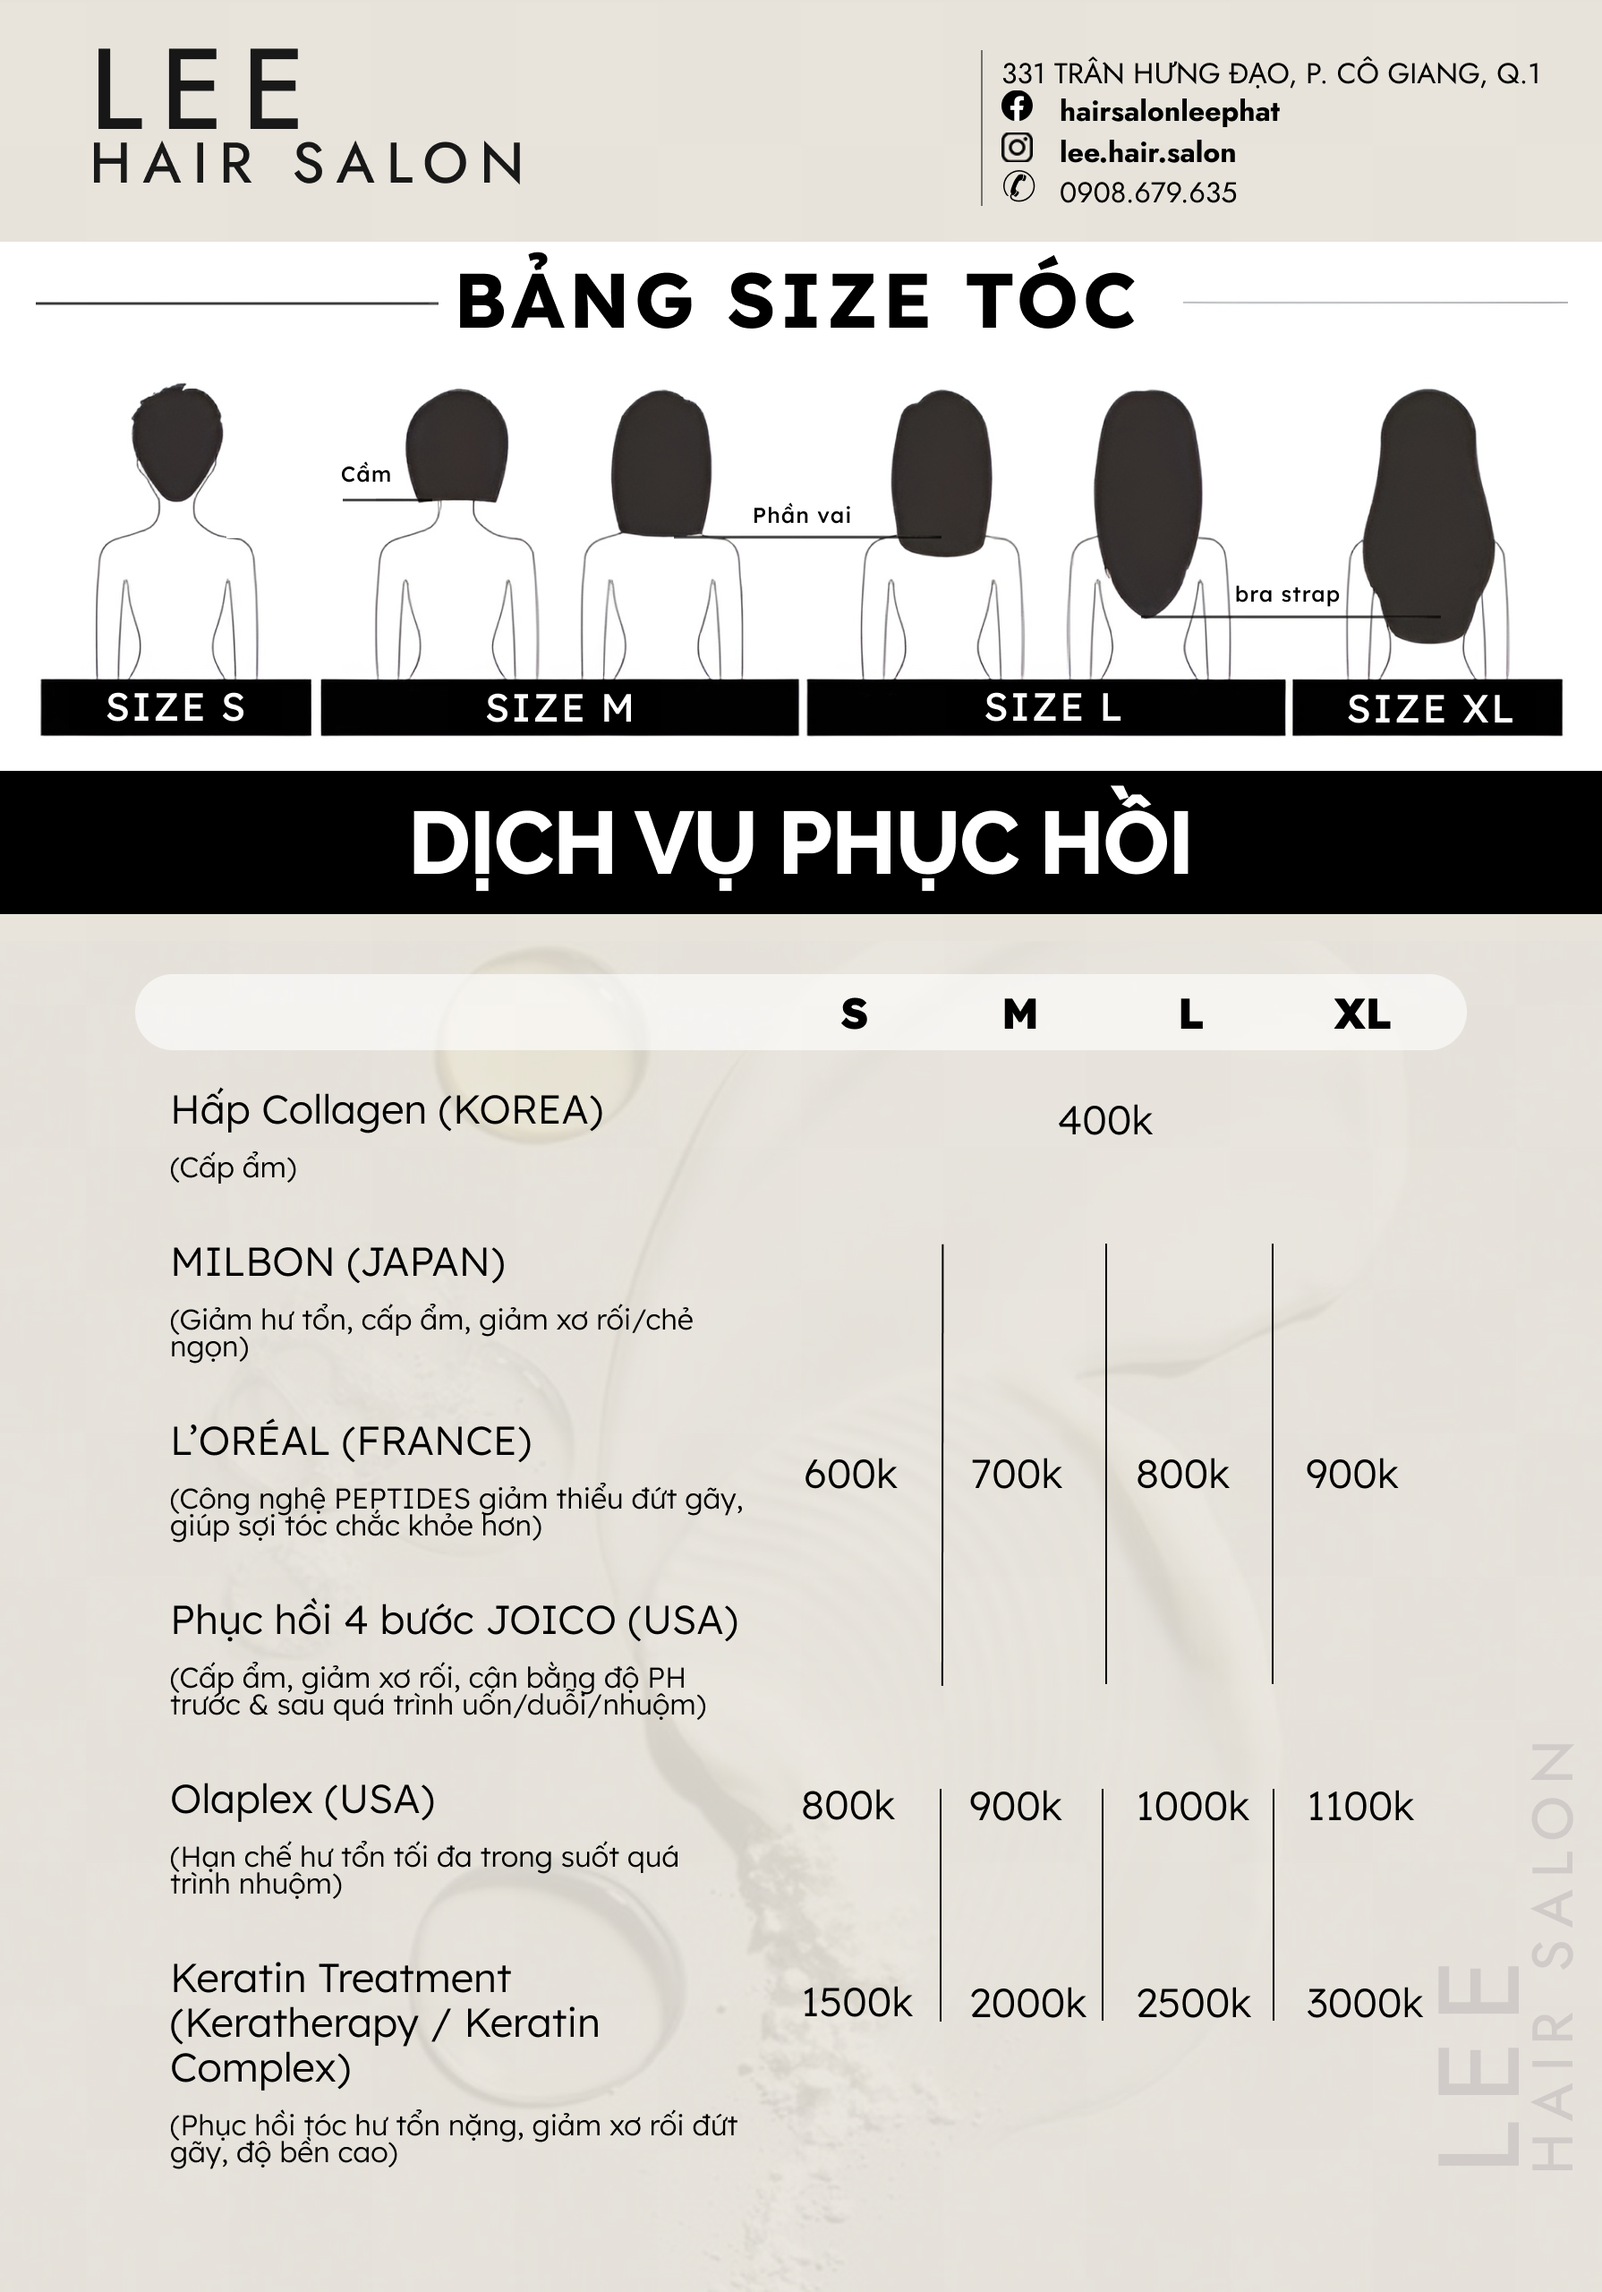
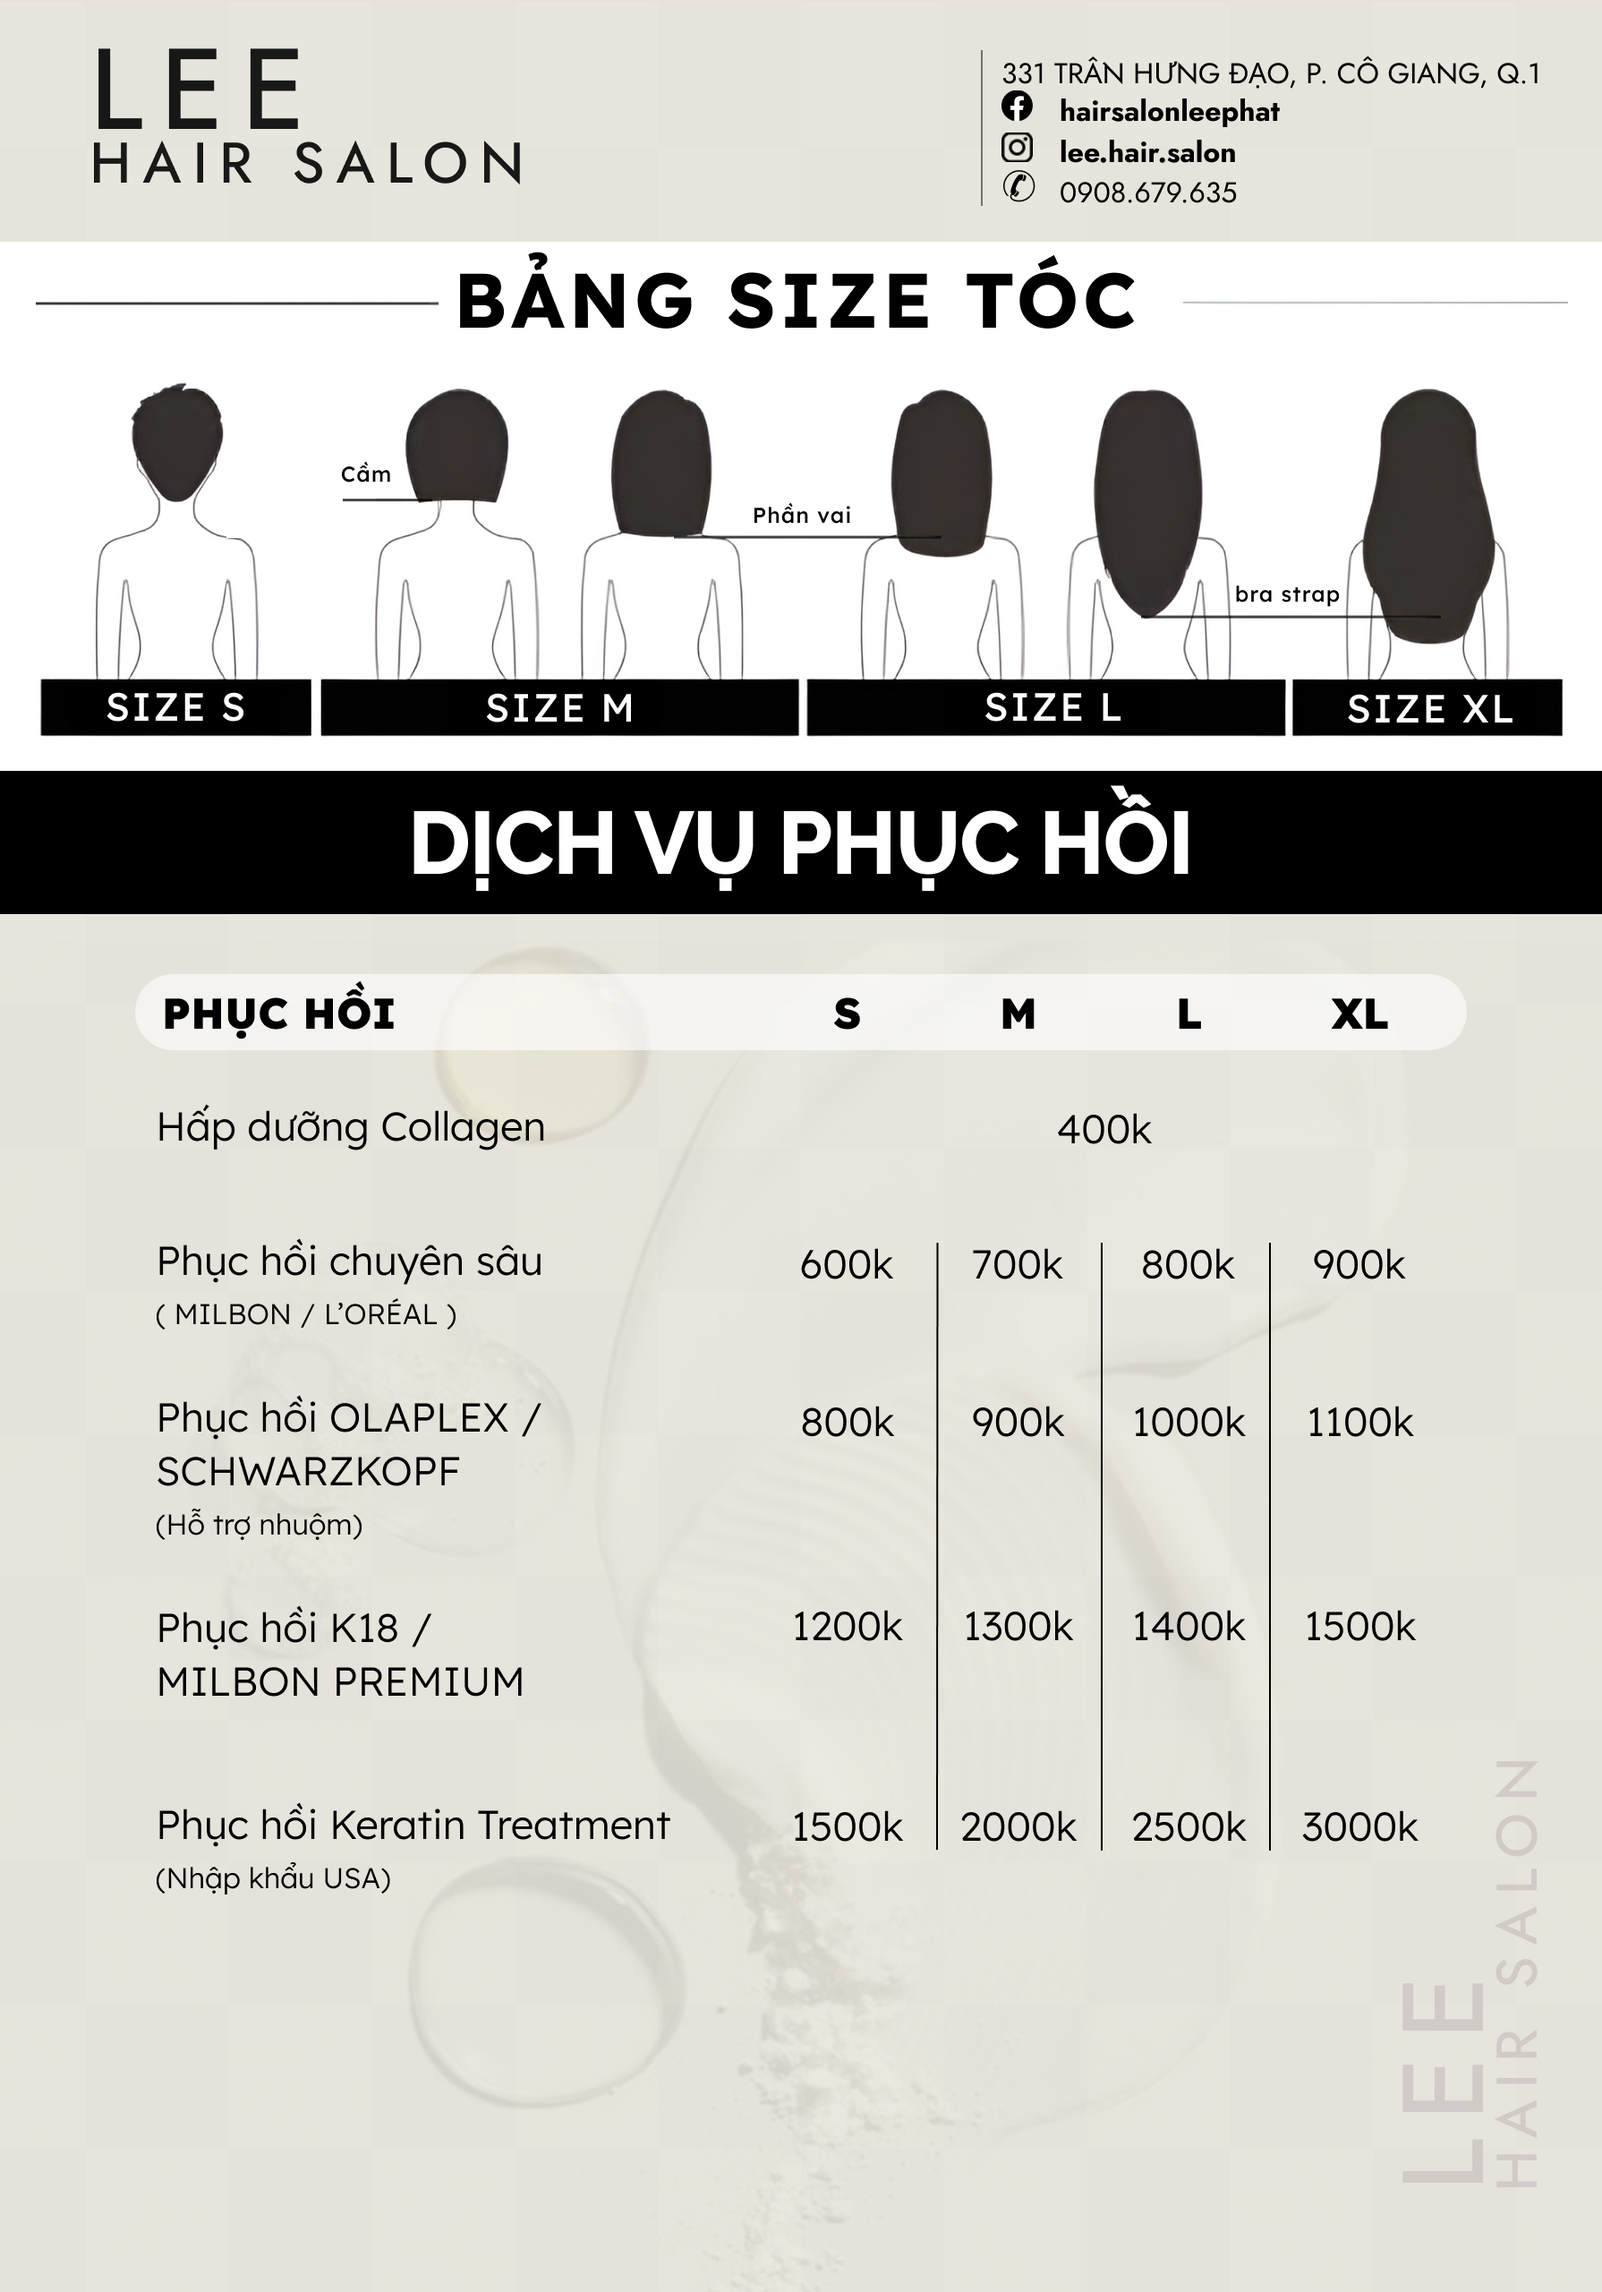
update

diff --git a/templates/price.html b/templates/price.html
@@ -94,7 +94,7 @@
         <div class="row justify-content-center">
           <div class="col-md-6 d-flex justify-content-center mt-3 mb-3">
             <div class="card mx-3 my-3 w-100">
-              <img class="img-fluid card-img-top" src="{{ url_for('static', filename='images/price_list/img-4_2.jpg') }}" alt="Background Image" loading="lazy">
+              <img class="img-fluid card-img-top" src="{{ url_for('static', filename='images/price_list/img-4.jpg') }}" alt="Background Image" loading="lazy">
             </div>
           </div>
           <div class="col-md-6 d-flex justify-content-center mt-3 mb-3">
